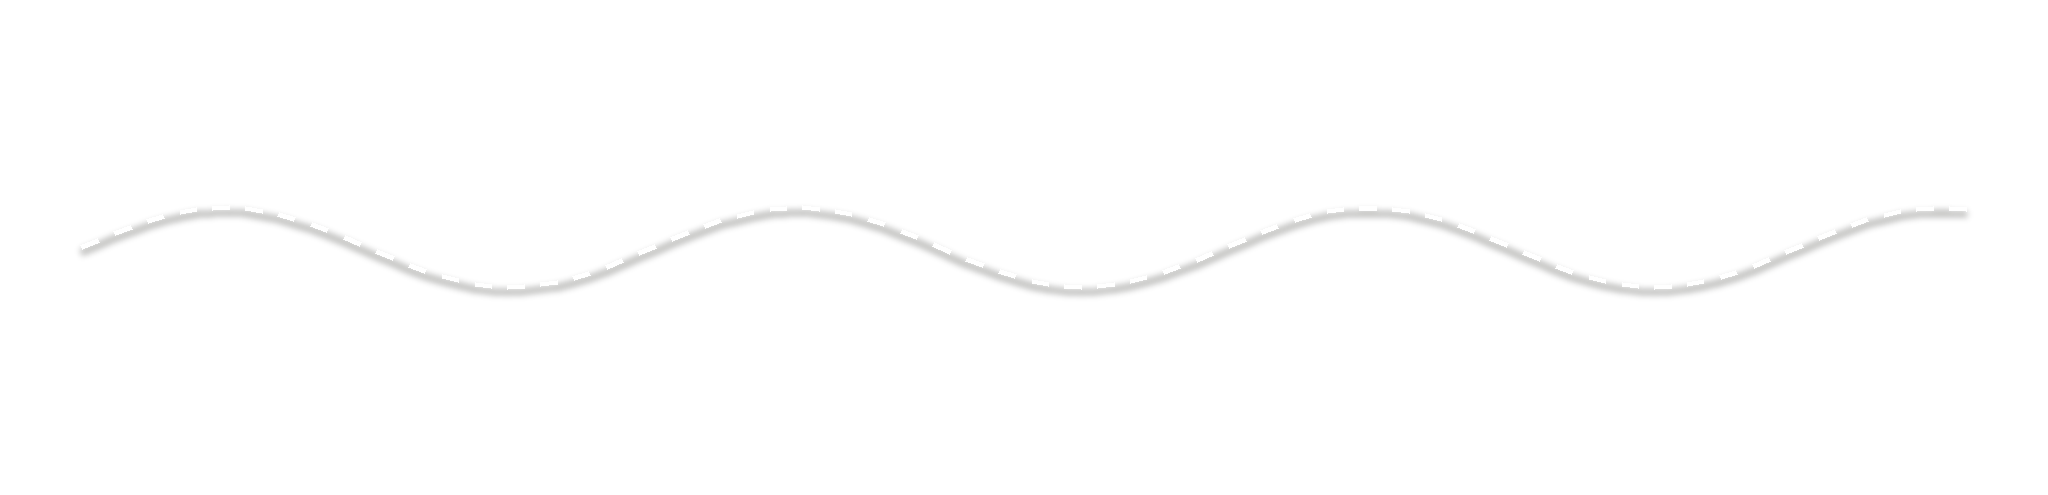
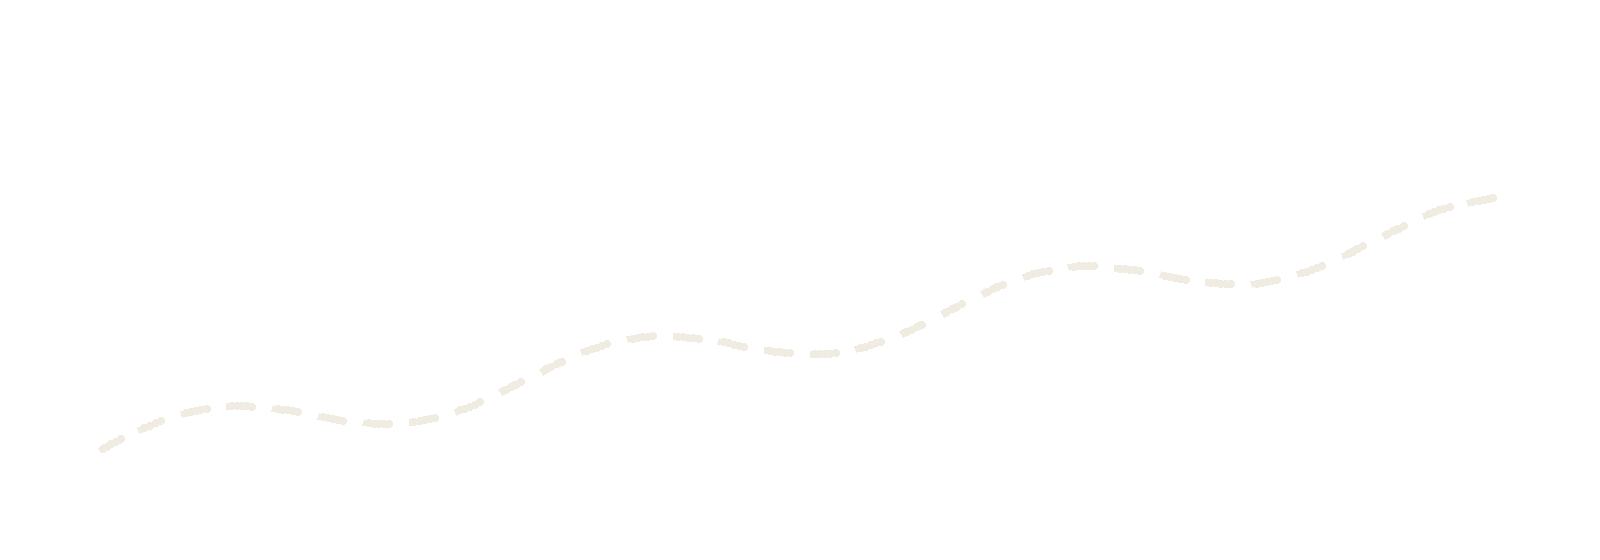
feat(主界面地图): 斜俯视重构第一版 —— 透视 shader + 纵深远近曲线
用户 2026-10-13 选定"改视角重构"：横条长卷 → 斜俯视大世界地图；做不了的效果用 shader 实现。
- 新增 shader WanXiang/UI/Perspective（Resources/Shaders/UIPerspective.shader）：
  ① 梯形透视（近宽远窄：uv.x 按 uv.y 收缩）；② 空气透视雾（越远越向雾色靠）。
- HomeMapJourney：
  · 旅程曲线由"水平正弦"改为"左下(近·低) → 右上(远·高)"的纵深曲线（PathPoint），
    并叠加梯形透视落点（PathPointWarped，与 shader 同一公式）。
  · 24 个节气节点沿新曲线排布 + 按进度缩小（近大远小，_nearScale→_farScale）；
    旅行者、四季标签、归墟之门同步跟到曲线上。
  · 背景层（远山/地面/近景/小路）套 UIPerspective 材质（keystone 0.28 + 雾 0.45）。
- 重画小路美术：_tools/_gen_journey_path_perspective.py → ArtRes/UI/HomeMap/journey_path.png
  （旧图备份 _backups/journey_path.png.bak_20261013）。
- 美术风格参考（用户指定，后续所有美术）：GRIS 的水彩渐变 + MIO 的漫画线条/水彩。

diff --git a/Assets/WanXiang/Modules/UI/HomeMapJourney.cs b/Assets/WanXiang/Modules/UI/HomeMapJourney.cs
@@ -44,6 +44,19 @@ namespace WanXiang.Modules.UI
         [SerializeField] private float _farParallax  = 0.35f; // 远山随悬浮移动的倍率（慢）
         [SerializeField] private float _nearParallax = 1.70f; // 近景随悬浮移动的倍率（快）
 
+        [Header("斜俯视（大世界）")]
+        // ★ 2026-10-13 用户：把"横条长卷"改成斜俯视大世界地图。
+        //   旅程从左下（近）走到右上（远）：节点沿新曲线排布 + 按进度缩小（透视），
+        //   背景地面用 WanXiang/UI/Perspective 做梯形透视 + 空气透视雾。
+        [SerializeField] private float _keystone   = 0.28f;  // 背景地面横向收缩（0=关；近宽远窄）
+        [SerializeField] private float _nearScale  = 1.22f;  // 起点（近）节点缩放
+        [SerializeField] private float _farScale   = 0.62f;  // 终点（远）节点缩放
+        [SerializeField] private float _pathMargin = 100f;   // 路径左右留边（px）
+        [SerializeField] private float _depthNear  = -170f;  // 起点 y（近·低）
+        [SerializeField] private float _depthFar   = 60f;    // 终点 y（远·高）
+        [SerializeField] private float _haze       = 0.45f;  // 空气透视雾强度
+        private Material _perspMat;
+
         // ---- 常量表 ----
         private static readonly string[] Terms =
         {
@@ -77,7 +90,70 @@ namespace WanXiang.Modules.UI
         {
             if (_far != null) _farBase = _far.rectTransform.anchoredPosition;
             if (_near != null) _nearBase = _near.rectTransform.anchoredPosition;
+            SetupPerspectiveMaterial();
             Refresh();
+        }
+
+        // ------------------------------------------------------------------ 斜俯视：背景地面透视
+        /// <summary>给背景层（远山 / 地面 / 近景 / 小路）套上透视 shader 材质（近宽远窄 + 空气透视雾）。</summary>
+        private void SetupPerspectiveMaterial()
+        {
+            var sh = Resources.Load<Shader>("Shaders/UIPerspective");
+            if (sh == null) sh = Shader.Find("WanXiang/UI/Perspective");
+            if (sh == null) return;   // 取不到就退回普通渲染（不崩）
+
+            _perspMat = new Material(sh);
+            _perspMat.hideFlags = HideFlags.HideAndDontSave;
+            _perspMat.SetFloat("_Keystone", _keystone);
+            _perspMat.SetFloat("_Haze", _haze);
+            _perspMat.SetColor("_HazeColor", new Color(0.93f, 0.91f, 0.87f, 1f));
+            _perspMat.SetFloat("_HazeStart", 0.30f);
+
+            if (_far != null) _far.material = _perspMat;
+            if (_terrain != null) _terrain.material = _perspMat;
+            if (_near != null) _near.material = _perspMat;
+            // 小路与地面同材质：保证"路贴在地面上"一起透视
+            if (_terrain != null && _terrain.transform.parent != null)
+            {
+                var path = _terrain.transform.parent.Find("Img_Path");
+                var pimg = path != null ? path.GetComponent<Image>() : null;
+                if (pimg != null) pimg.material = _perspMat;
+            }
+        }
+
+        /// <summary>旅程曲线上的点（未透视）。<paramref name="kk"/> = 连续节气相位 0..23。
+        /// ⚠ 必须与 _tools/_gen_journey_path_perspective.py 的常量一致（margin / depthNear / depthFar / amp / freq）。</summary>
+        private Vector2 PathPoint(float kk)
+        {
+            float w = StripW();
+            float t = Mathf.Clamp01(kk / (TotalTerms - 1));
+            float x = -w * 0.5f + _pathMargin + t * (w - 2f * _pathMargin);
+            float y = Mathf.Lerp(_depthNear, _depthFar, t) + Mathf.Sin(kk * _waveFreq) * _waveAmp;
+            return new Vector2(x, y);
+        }
+
+        /// <summary>叠加梯形透视后的落点（与 UIPerspective.shader 同一公式：屏幕 x = 原始 x * s，s = 1-keystone*v）。</summary>
+        private Vector2 PathPointWarped(float kk)
+        {
+            Vector2 p = PathPoint(kk);
+            float h = _terrain != null ? _terrain.rectTransform.rect.height : 560f;
+            float v = Mathf.Clamp01((p.y + h * 0.5f) / h);
+            float s = 1f - _keystone * v;
+            return new Vector2(p.x * s, p.y);
+        }
+
+        /// <summary>四个季节标签（春/夏/秋/冬）跟到对应季首的曲线点上（浮在路线上方）。</summary>
+        private void LayoutSeasonLabels()
+        {
+            if (_terrain == null || _terrain.transform.parent == null) return;
+            var par = _terrain.transform.parent;      // Map_Par
+            for (int s = 0; s < SeasonNames.Length; s++)
+            {
+                var rt = par.Find("Tmp_Season_" + s) as RectTransform;
+                if (rt == null) continue;
+                Vector2 p = PathPointWarped(s * TermsPerSeason);
+                rt.anchoredPosition = new Vector2(p.x, p.y + 46f);
+            }
         }
 
         // ------------------------------------------------------------------
@@ -94,6 +170,7 @@ namespace WanXiang.Modules.UI
             float p = act >= 5 ? 1f : ((act - 1) + prog) / 4f;
 
             ApplyNodes(p, act >= 5);
+            LayoutSeasonLabels();
             ApplyFogAndMarker(p, act, prog);
             ApplyFinaleGate(act >= 5);
             ApplyLabel(act, prog);
@@ -112,10 +189,11 @@ namespace WanXiang.Modules.UI
             //   实际宽度换算贴到右端内侧，保证任何宽度下都跟着走。
             if (finale)
             {
-                float w = StripW();
-                float gateW = _finale.rectTransform.sizeDelta.x;
+                // 斜俯视：归墟之门放到旅程终点（右上·远）之外一点，跟着新曲线走
+                Vector2 end = PathPointWarped(TotalTerms - 1);
                 var p = _finale.rectTransform.anchoredPosition;
-                p.x = (w * 0.5f) - gateW * 0.5f - 40f;   // 贴右端，留 40px 内边距
+                p.x = end.x + 70f;
+                p.y = end.y - 6f;
                 _finale.rectTransform.anchoredPosition = p;
             }
         }
@@ -127,8 +205,17 @@ namespace WanXiang.Modules.UI
             int n = _nodesRoot.childCount;
             for (int k = 0; k < n; k++)
             {
-                var img = _nodesRoot.GetChild(k).GetComponent<Image>();
+                var child = _nodesRoot.GetChild(k) as RectTransform;
+                if (child == null) continue;
+                var img = child.GetComponent<Image>();
                 if (img == null) continue;
+
+                // ---- 斜俯视：沿"左下(近) → 右上(远)"的曲线排布，并按进度缩小（近大远小）----
+                float tk = n > 1 ? (float)k / (n - 1) : 0f;
+                child.anchoredPosition = PathPointWarped(tk * (TotalTerms - 1));
+                float sc = Mathf.Lerp(_nearScale, _farScale, tk);
+                child.localScale = new Vector3(sc, sc, 1f);
+
                 float xFrac = (k + 1) / NodeXDenom;
                 if (finale || xFrac <= p + 0.0001f)
                 {
@@ -150,12 +237,13 @@ namespace WanXiang.Modules.UI
 
             // 旅行者：连续节气相位 t∈[0,23]（P=0 → 立春；P=1 → 大寒）
             float t = Mathf.Clamp(p, 0f, 1f) * (TotalTerms - 1);
-            float mx = ((t + 1) / NodeXDenom) * w - w * 0.5f;
-            float my = Mathf.Sin(t * _waveFreq) * _waveAmp;
             if (_marker != null)
             {
                 _marker.gameObject.SetActive(true);
-                _marker.rectTransform.anchoredPosition = new Vector2(mx, my + 4f); // 底枢轴：脚踩小路
+                Vector2 mp = PathPointWarped(t);
+                _marker.rectTransform.anchoredPosition = mp + new Vector2(0f, 4f); // 底枢轴：脚踩小路
+                float ms = Mathf.Lerp(_nearScale, _farScale, Mathf.Clamp01(t / (TotalTerms - 1)));
+                _marker.rectTransform.localScale = new Vector3(ms, ms, 1f);       // 近大远小
             }
 
             // 迷雾：从当前位置盖到最右；走完消失。左缘自带 150px 渐隐
